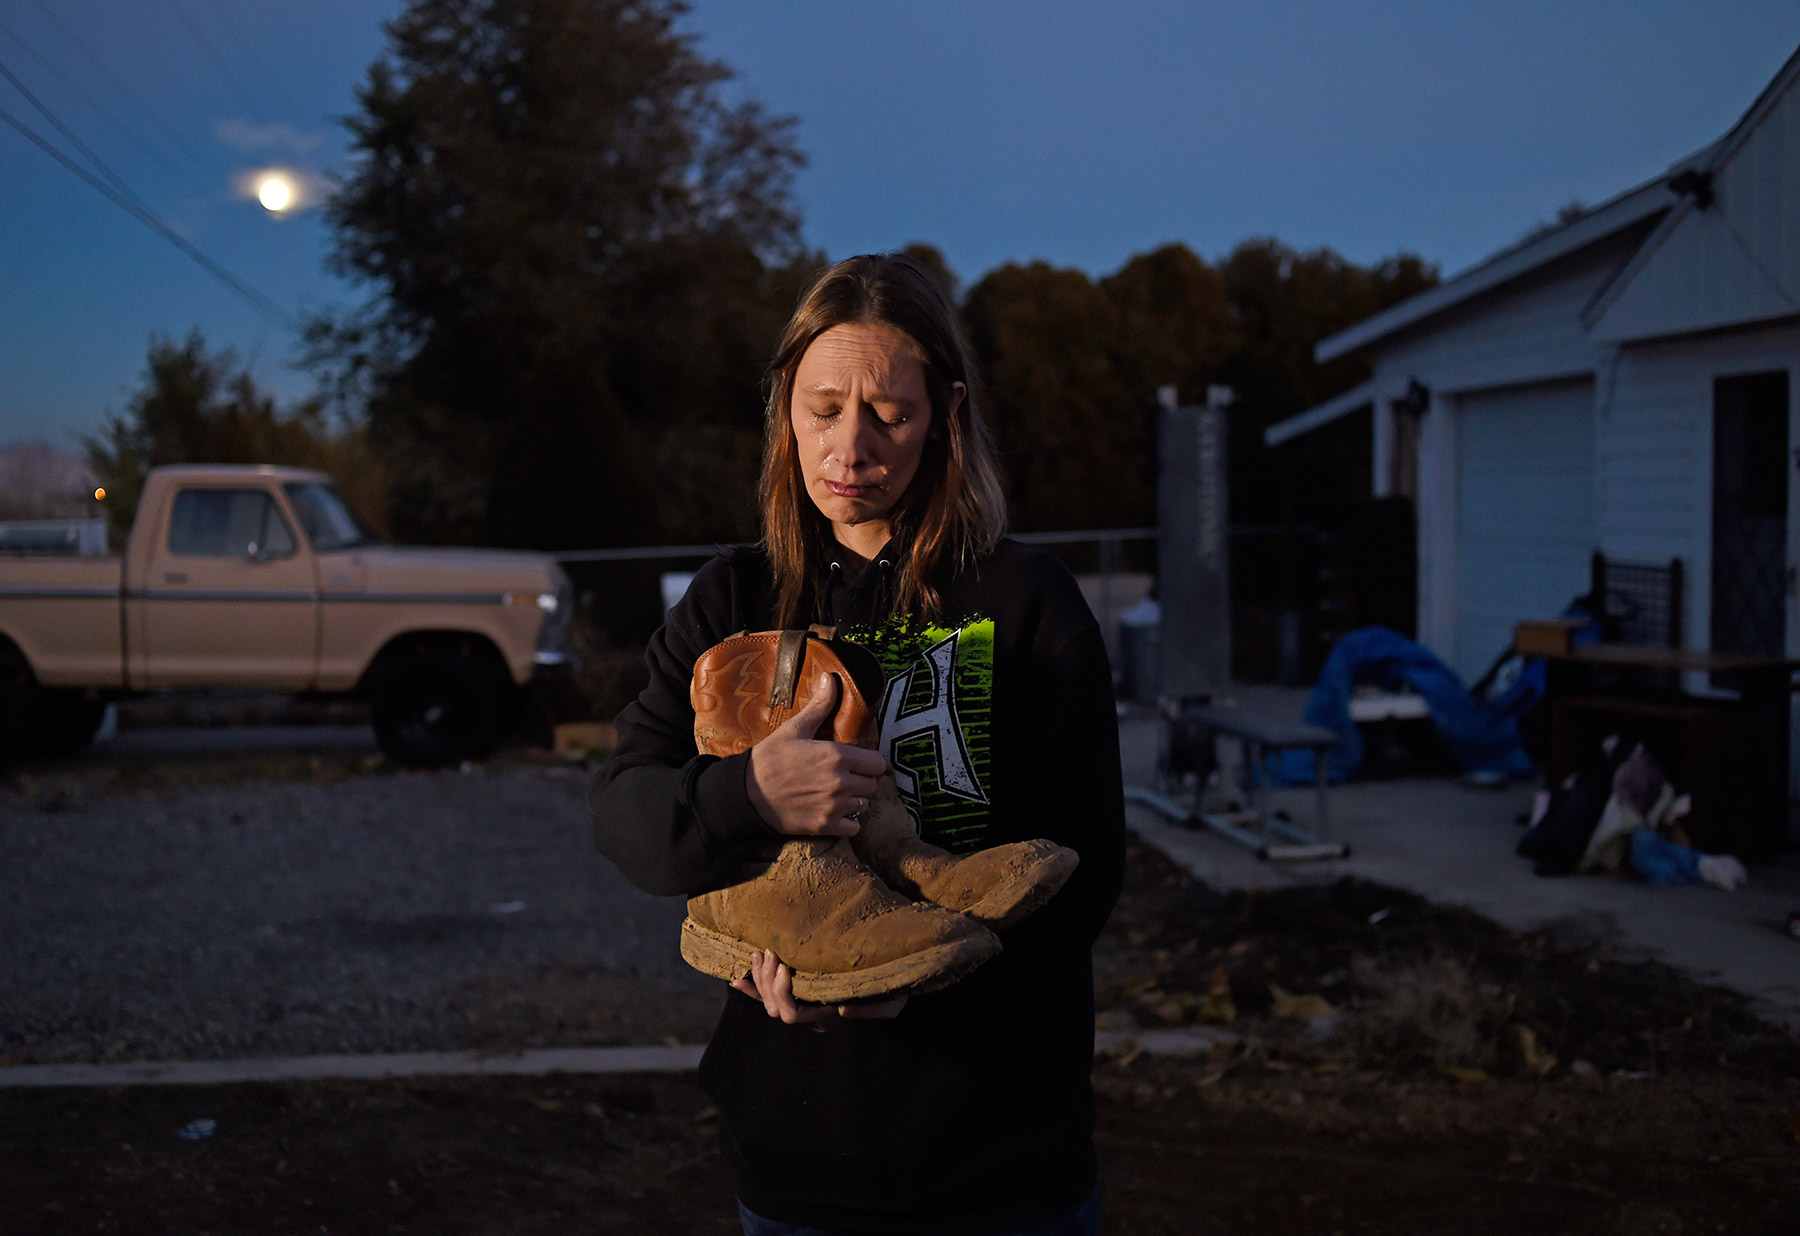
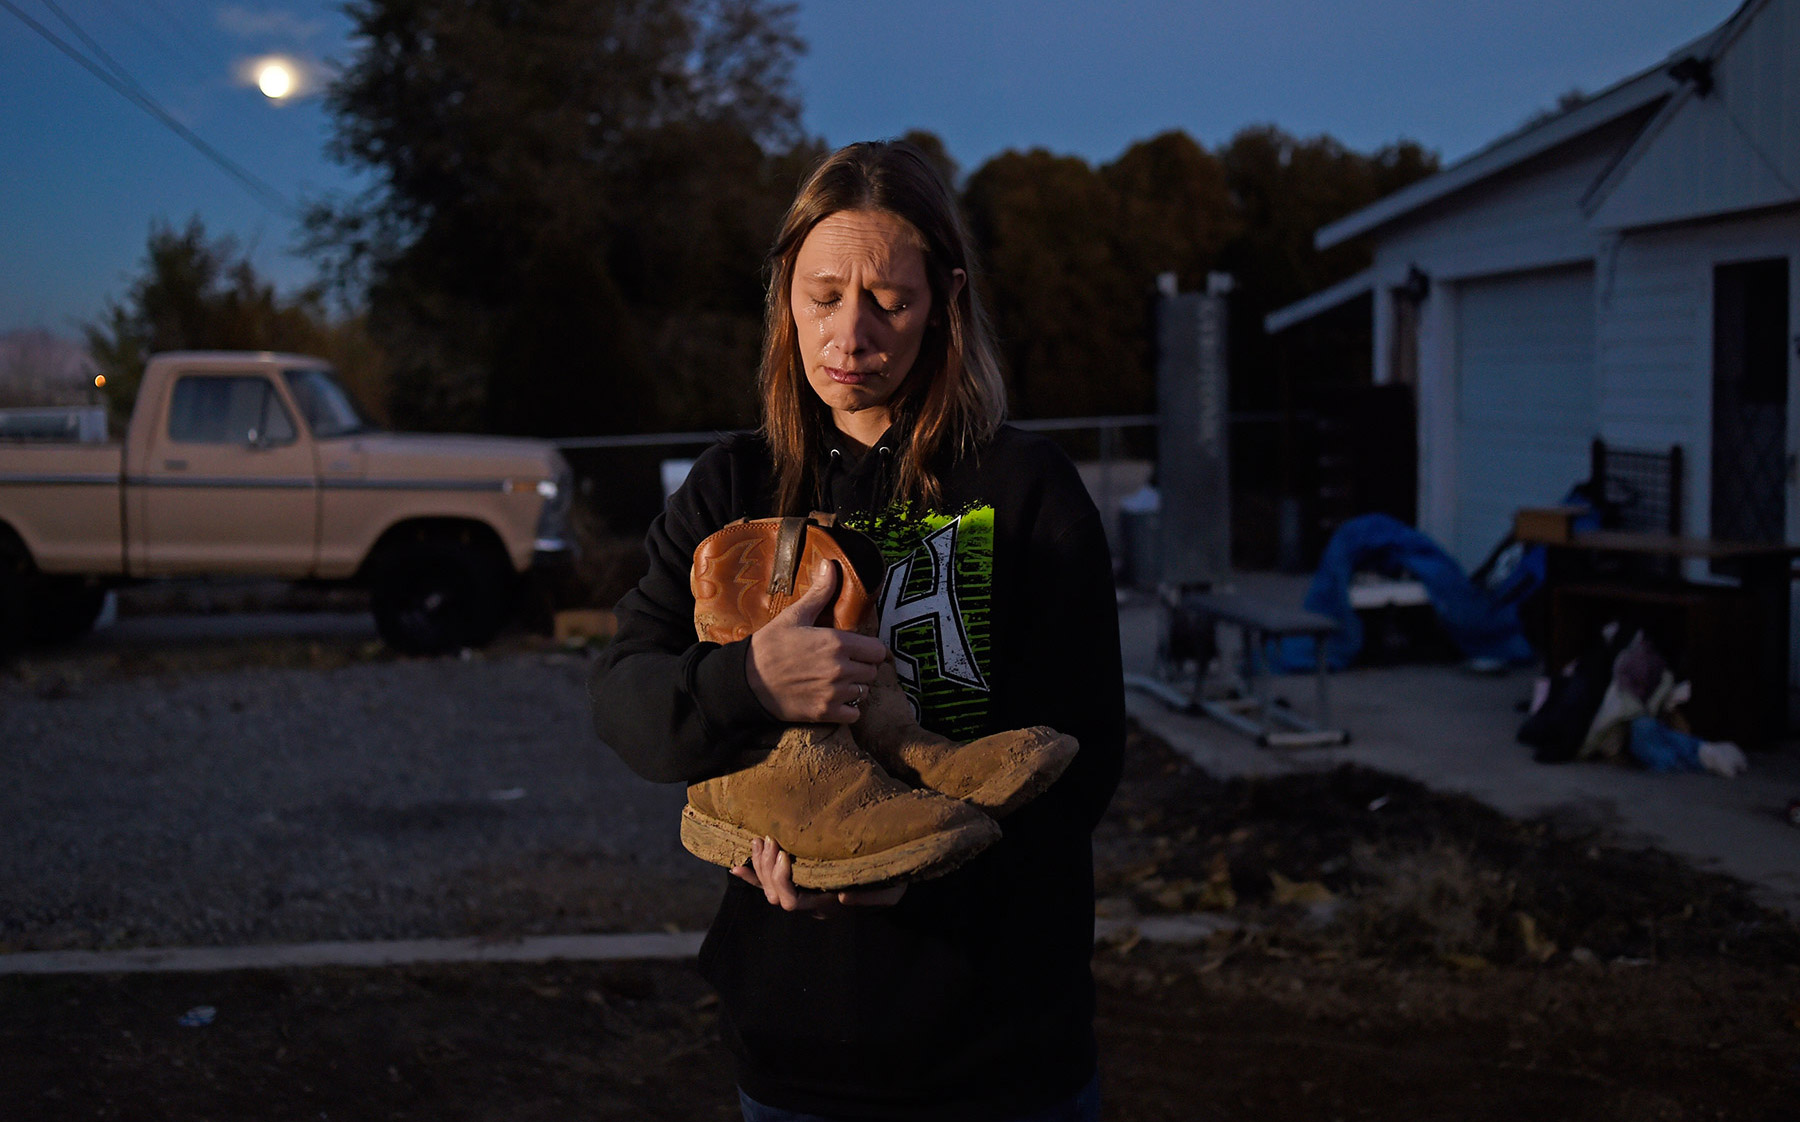
Big changes for heading images, applied in index

diff --git a/index.html b/index.html
@@ -161,14 +161,12 @@
 	</div>
 <![endif]-->
 
-<div class="opener columns" style="background-image:url('./img/oilgas-overview-29532.jpg');">
+<div class="opener">
+	<img src="./img/oilgas-overview-29532.jpg" alt="Sharon Hill holds her late husband's muddy boots" class="headeroneimg" />
+	<p class="caption"><span class="photog">RJ Sangosti, The Denver Post</span> Sharon Hill holds her late husband&rsquo;s muddy boots outside her home in Grand Junction, Colorado. Her late husband, Shane Hill, was killed in an oil accident only five days after they bought the home where Sharon still lives with her two sons. Sharon said she found out about her husband&rsquo;s death on Facebook, and the next morning a Cyclone Drilling employee dropped off his truck and mud-covered boots. &ldquo;It seems like they didn&rsquo;t care when they dropped off the truck. I was really upset and crying a ton. They asked to talk to someone not so emotional, so my sister took over&hellip;I haven&rsquo;t heard from anyone at the company since then,&rdquo; said Sharon.</p>
 	<div id="title">
-		<div class="row">
-			<div class="large-6 medium-8 small-10 columns">
-				<h2 class="heading">Drilling through death</h2>
-				<p class="blurb">This is the example of a blurb. It should probably just be about two medium sentences if we can keep it to that. You know, maybe like 30 or 40 words long. OK?</p>
-			</div>
-		</div>
+		<h2>Drilling through death</h2>
+		<p class="blurb">With fewer rule-making and standards, the oil and gas industry has created a regulatory vacuum that covers companies when it comes to accountability.</p>
 	</div>
 </div>
 
@@ -176,16 +174,15 @@
 
 <div class="row">
 	<div class="large-12 large-centered medium-12 medium-centered small-12 columns">
-		<p class="caption"><span class="photog">RJ Sangosti, The Denver Post</span> Sharon Hill holds her late husband&rsquo;s muddy boots outside her home in Grand Junction, Colorado. Her late husband, Shane Hill, was killed in an oil accident only five days after they bought the home where Sharon still lives with her two sons. Sharon said she found out about her husband&rsquo;s death on Facebook, and the next morning a Cyclone Drilling employee dropped off his truck and mud-covered boots. &ldquo;It seems like they didn&rsquo;t care when they dropped off the truck. I was really upset and crying a ton. They asked to talk to someone not so emotional, so my sister took over&hellip;I haven&rsquo;t heard from anyone at the company since then,&rdquo; said Sharon.</p>
+		<p class="caption secondcaption"><span class="photog">RJ Sangosti, The Denver Post</span> Sharon Hill holds her late husband&rsquo;s muddy boots outside her home in Grand Junction, Colorado. Her late husband, Shane Hill, was killed in an oil accident only five days after they bought the home where Sharon still lives with her two sons. Sharon said she found out about her husband&rsquo;s death on Facebook, and the next morning a Cyclone Drilling employee dropped off his truck and mud-covered boots. &ldquo;It seems like they didn&rsquo;t care when they dropped off the truck. I was really upset and crying a ton. They asked to talk to someone not so emotional, so my sister took over&hellip;I haven&rsquo;t heard from anyone at the company since then,&rdquo; said Sharon.</p>
 	</div>
 </div>
 <!-- TITLE EXAMPLE -->
 <div class="row">
 	<div class="large-10 large-centered medium-11 medium-centered small-12 columns">
 		<div class="title">
-			<h2 class="heading">Oil and Gas Deaths: Part 1</h2>
+			<h2 class="heading">Chapter 1</h2>
 			<h1>Extracting oil and gas comes with inherent, lethal consequences</h1>
-			<h3>With fewer rule-making and standards, oil and gas industry has created a regulatory vacuum that covers companies when it comes to accountability</h3>
 		</div>
 		<p class="published">Published September 26, 2016</p>
 		<p class="byline">By John Ingold and Monte Whaley</p>

diff --git a/css/style.css b/css/style.css
@@ -42,15 +42,11 @@ body {
     text-decoration:none;
     cursor:pointer;
 }
+.opener .caption {
+    display:none;
+}
 .opener {
-    background-position: 50% 50%;
-    background-repeat: no-repeat;
-    background-size: cover;
-    -webkit-background-size: cover;
-    -moz-background-size: cover;
-    -o-background-size: cover;
-    background-attachment: absolute;
-    height: 90%;
+    height: 100%;
     width: 100%;
     overflow: hidden;
     position: relative;
@@ -58,21 +54,21 @@ body {
     z-index: -2;
     margin-bottom:1em;
 }
-.opener div#title {
-    background-color:rgba(0,0,0,0.15);
-    z-index: -1;
-    bottom: 0;
-    left: 0;
-    width: 100%;
-    height: 100%;
-}
-.opener div#title > .row {
+.opener .headeroneimg {
     position: absolute;
-    top:40%;
-    left:10%;
+    top:0;
+    left:0;
+    width:100%;
+}
+.opener div#title {
+    width:30%;
+    height: 50%;
+    position: absolute;
+    top:30%;
+    left:5%;
 }
 .opener div#title h2 {
-    font-size:5.5em;
+    font-size:5em;
     width:100%;
     line-height:1;
     color:rgba(255,255,255,0.975);
@@ -83,7 +79,7 @@ body {
 }
 .opener div#title p.blurb {
     font-family:'Noticia Text', Georgia, Times, 'Times New Roman', serif;
-    font-size:1.3em;
+    font-size:1.25em;
     line-height:1.6;
     color:rgba(255,255,255,0.975);
     font-weight:400;
@@ -96,24 +92,28 @@ div.title {
     display:block;
     padding-top:4em;
 }
-div.title h2 {
+h2.heading {
     font-size:1.75em;
-    width:100%;
+    width:50%;
     line-height:1;
     color:rgba(0,0,0,0.4);
     font-weight: 400;
     text-transform:uppercase;
+    text-align:center;
     letter-spacing:-1px;
-    padding-top:.25em;
+    padding:.25em 0;
+    margin:0 auto;
+    border-bottom:1px solid rgba(0,0,0,0.4);
 }
 div.title h1 {
     margin:.8em auto;
     font-family:'PT Sans Narrow', Helvetica, Arial, sans-serif !important;
-    font-size:5em;
+    font-size:3.5em;
     font-weight:700;
     line-height:1.1;
     color:rgba(34,34,34,1);
     display:block;
+    text-align:center;
     z-index:-1;
     letter-spacing:-1px;
 }
@@ -1424,6 +1424,34 @@ div#footer-bar ul.social li {
     }
 }
 @media (max-width:930px) {
+    .opener {
+        height: auto;
+    }
+    .opener .caption {
+        display:block;
+    }
+    .secondcaption {
+        display:none;
+    }
+    .opener .headeroneimg {
+        position: unset;
+        width:100%;
+        margin-bottom:1em;
+    }
+    .opener div#title {
+        position:unset;
+        display:block;
+        width:100%;
+        padding:0 2.5%;
+    }
+    .opener div#title h2 {
+        color:rgba(0,0,0,0.85);
+        text-shadow: 3px 3px 8px rgba(0,0,0,0.25);
+        margin-top:1em;
+    }
+    .opener div#title p.blurb {
+        color:rgba(0,0,0,0.7);
+    }
     #logoimg {
         height:1.3em;
     }
@@ -1468,9 +1496,6 @@ div#footer-bar ul.social li {
     }
 }
 @media (max-width:800px) {
-    .opener div#title h2 {
-        font-size:3em;
-    }
     .opener div#title p.blurb {
         font-size:1.2em;
         line-height:1.5;
@@ -1511,7 +1536,7 @@ div#footer-bar ul.social li {
         font-size:2.25em;
     }
     .opener div#title h2 {
-        font-size:3em;
+        font-size:3.5em;
         letter-spacing:0px;
     }
     .opener div#title p.blurb {
@@ -1605,7 +1630,7 @@ div#footer-bar ul.social li {
         font-size:2em;
     }
     .opener div#title h2 {
-        font-size:2.5em;
+        font-size:3em;
     }
     p, .reveal-modal li {
         font-size:1em;
